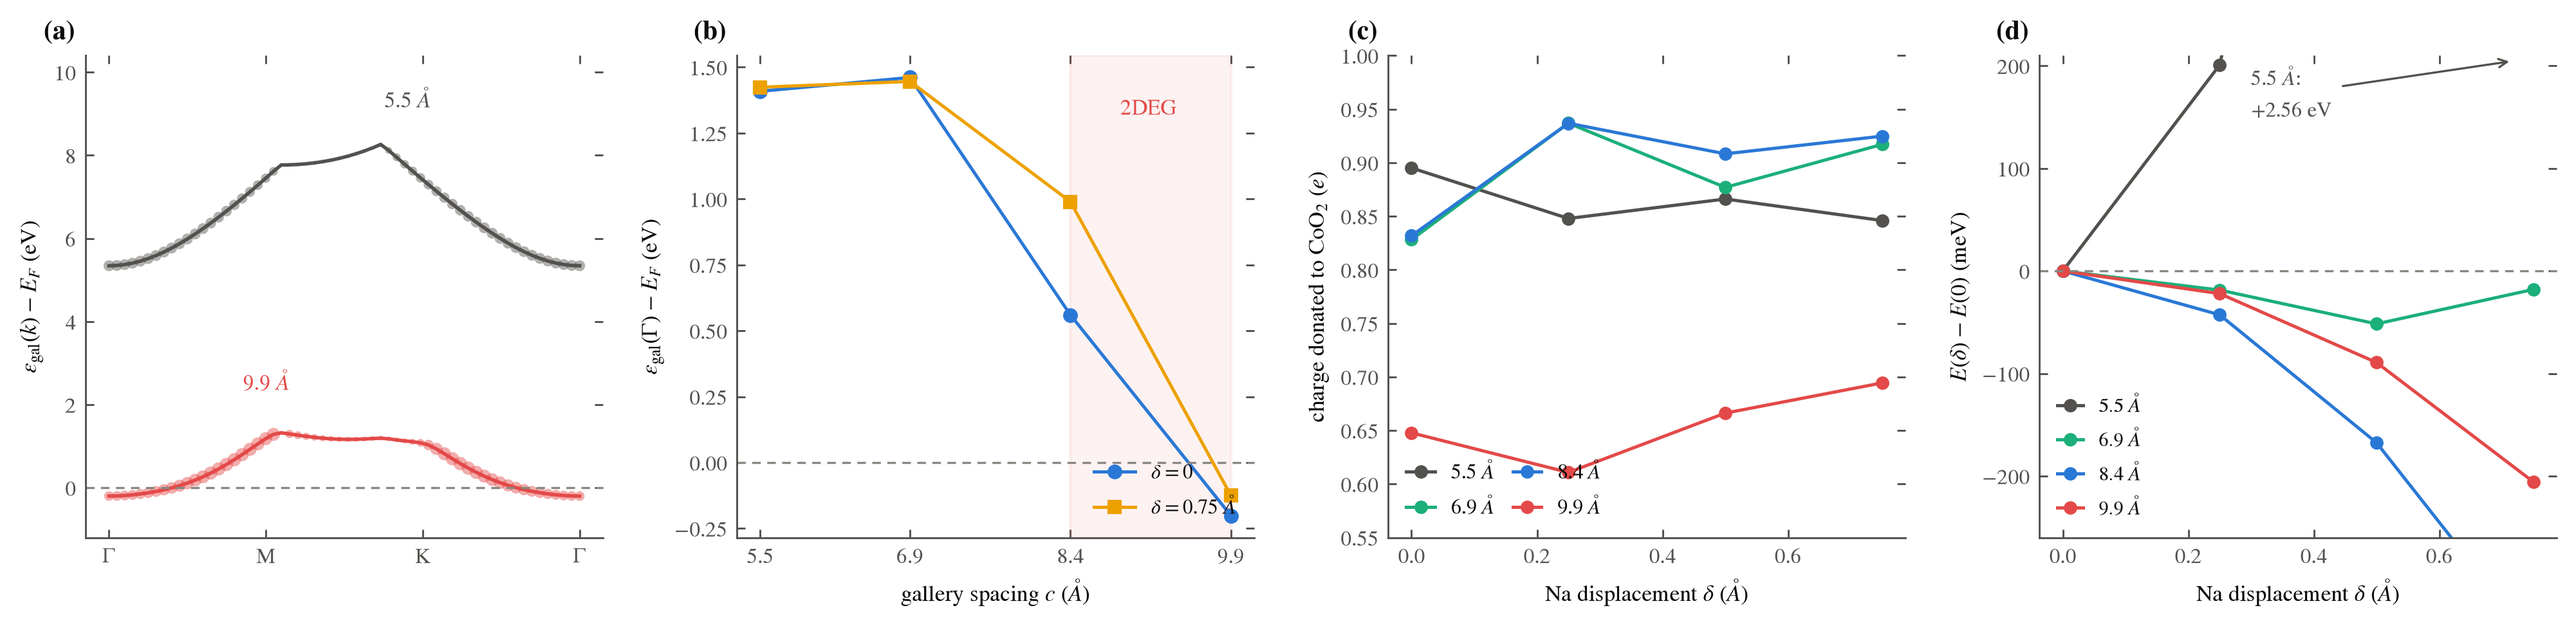
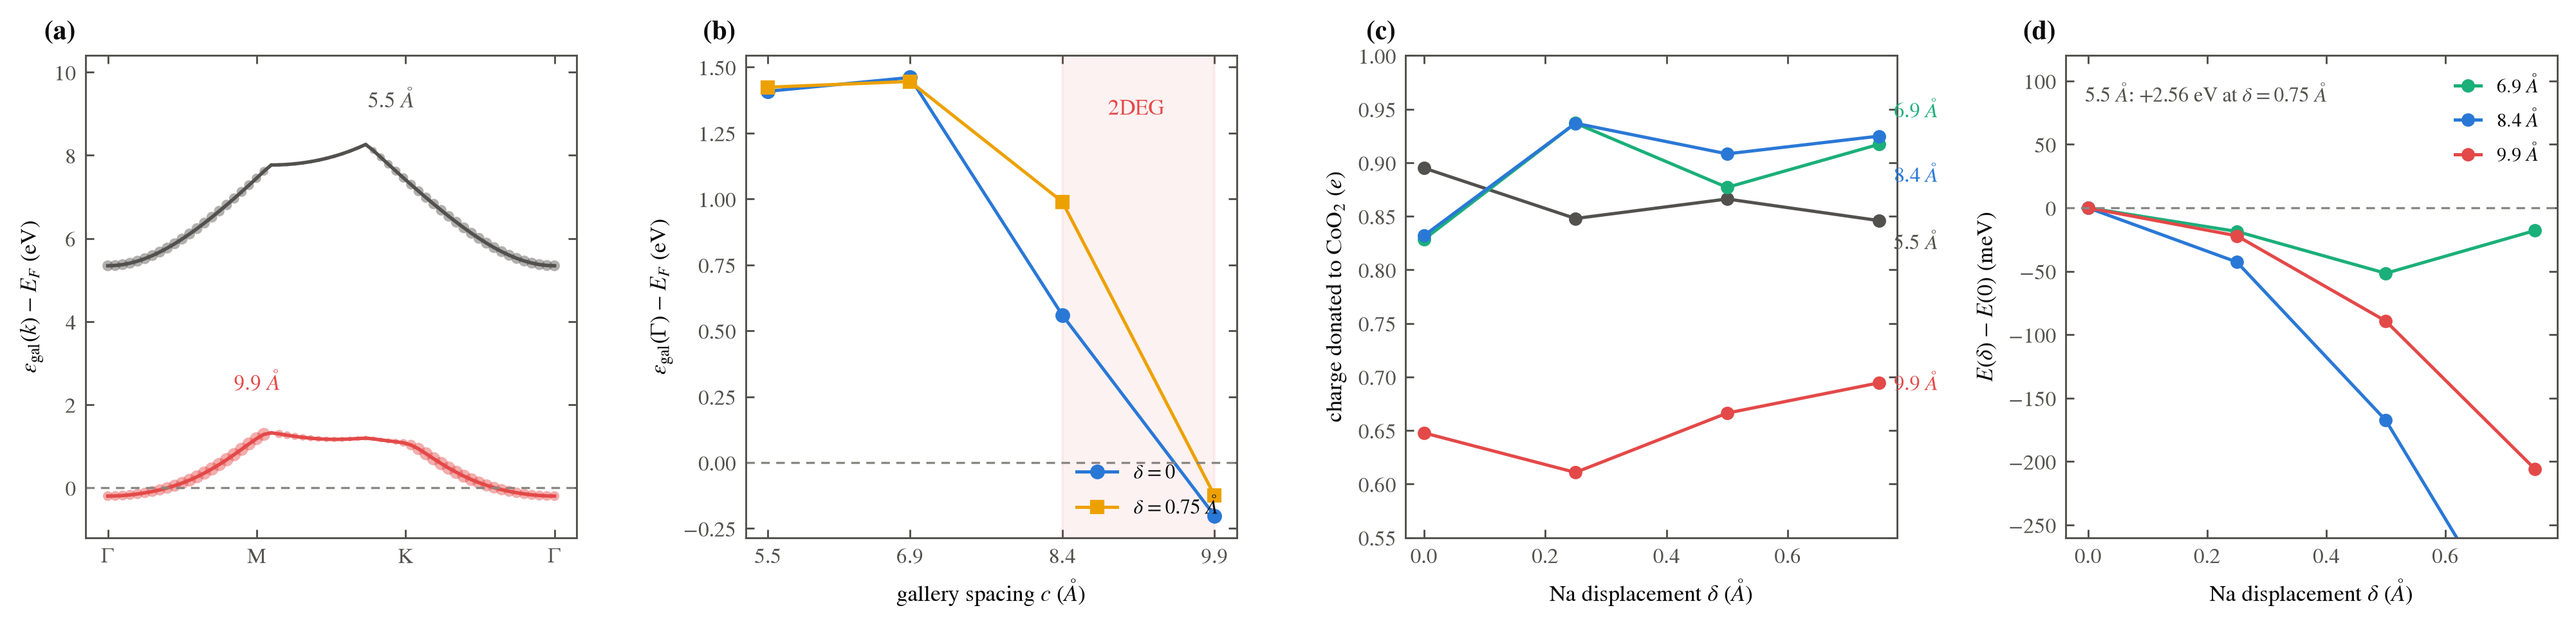
figS_gallery_x13: full frames, direct labels, no off-frame artifacts

diff --git a/paper/figure_scripts/figS_gallery_x13.py b/paper/figure_scripts/figS_gallery_x13.py
@@ -151,7 +151,7 @@ a.set_xticks([0, 1 / 3, 2 / 3, 1])
 a.set_xticklabels([r"$\Gamma$", "M", "K", r"$\Gamma$"])
 a.set_ylabel(r"$\varepsilon_{\rm gal}(k)-E_F$ (eV)")
 a.set_ylim(-1.2, 10.4)
-S.thin_spines(a)
+S.thin_spines(a, hide=())
 
 # (b) Gamma energy and occupation vs c ---------------------------------------
 cc = np.array([float(x) for x in CS])
@@ -166,36 +166,36 @@ b.set_xlabel(r"gallery spacing $c$ ($\AA$)")
 b.set_ylabel(r"$\varepsilon_{\rm gal}(\Gamma)-E_F$ (eV)")
 b.legend(frameon=False, fontsize=7.6, loc="lower right")
 b.set_xticks(cc)
-S.thin_spines(b)
+S.thin_spines(b, hide=())
 
 # (c) Bader donated charge vs delta ------------------------------------------
+endlab = {"5.5": -0.020, "6.9": 0.032, "8.4": -0.036, "9.9": 0.0}
 for cv in CS:
     ds = [r["delta"] for r in tab[cv]]
     dn = [r["donated"] for r in tab[cv]]
-    cax.plot(ds, dn, marker="o", ms=4, lw=1.2, color=C_COL[cv],
-             label=rf"{cv} $\AA$")
+    cax.plot(ds, dn, marker="o", ms=4, lw=1.2, color=C_COL[cv])
+    cax.text(0.775, dn[-1] + endlab[cv], rf"{cv} $\AA$", color=C_COL[cv],
+             fontsize=7.8, va="center", clip_on=False)
 cax.set_xlabel(r"Na displacement $\delta$ ($\AA$)")
 cax.set_ylabel(r"charge donated to CoO$_2$ ($e$)")
+cax.set_xlim(-0.03, 0.78)
 cax.set_ylim(0.55, 1.0)
-cax.legend(frameon=False, fontsize=7.6, ncol=2, loc="lower left",
-           columnspacing=0.9, handlelength=1.4)
-S.thin_spines(cax)
+S.thin_spines(cax, hide=())
 
 # (d) E(delta) wells ----------------------------------------------------------
-for cv in CS:
+for cv in CS[1:]:
     ds = np.array([r["delta"] for r in tab[cv]])
     E = np.array([r["E_ry"] for r in tab[cv]]) * RY_EV
     d.plot(ds, (E - E[0]) * 1e3, marker="o", ms=4, lw=1.2, color=C_COL[cv],
            label=rf"{cv} $\AA$")
 d.axhline(0, color=S.C_MUT, lw=0.8, ls=(0, (4, 3)))
+d.text(0.04, 0.945, "5.5 $\AA$: $+2.56$ eV at $\delta=0.75$ $\AA$",
+       transform=d.transAxes, fontsize=7.6, color=S.C_SEC, va="top")
 d.set_xlabel(r"Na displacement $\delta$ ($\AA$)")
 d.set_ylabel(r"$E(\delta)-E(0)$ (meV)")
-d.set_ylim(-260, 210)
-d.annotate("5.5 $\AA$:\n$+2.56$ eV", xy=(0.72, 205), xytext=(0.30, 150),
-           fontsize=7.8, color=S.C_SEC,
-           arrowprops=dict(arrowstyle="->", color=S.C_SEC, lw=0.8))
-d.legend(frameon=False, fontsize=7.4, loc="lower left", handlelength=1.3)
-S.thin_spines(d)
+d.set_ylim(-260, 120)
+d.legend(frameon=False, fontsize=7.4, loc="upper right", handlelength=1.3)
+S.thin_spines(d, hide=())
 
 for ax, lt in zip(axs, "abcd"):
     S.panel_label(ax, lt)
